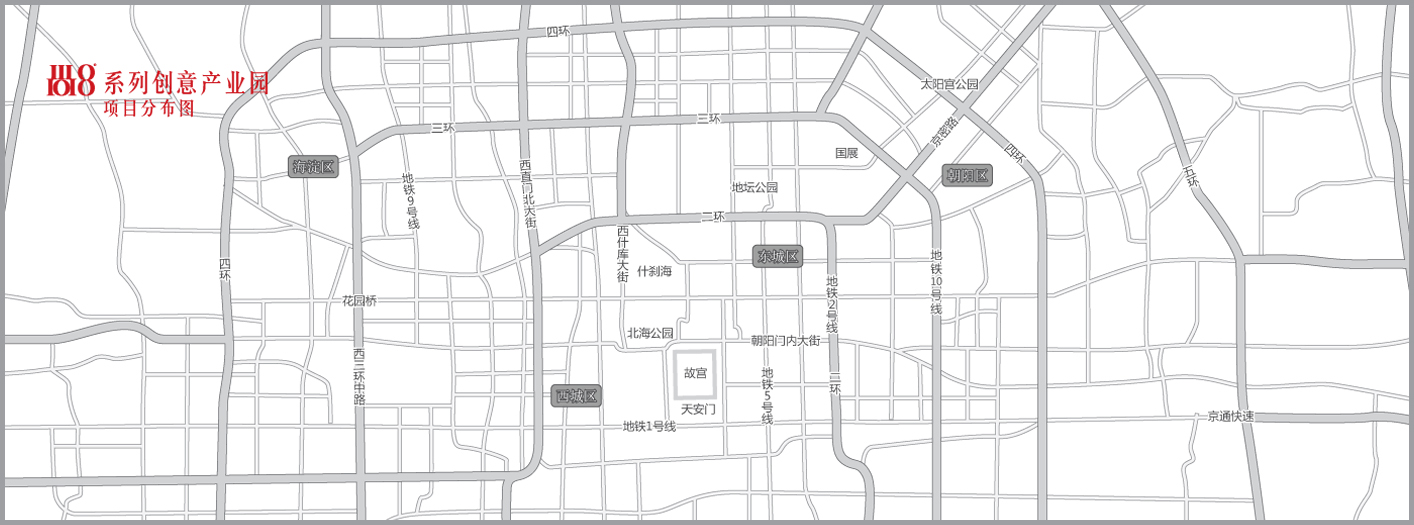
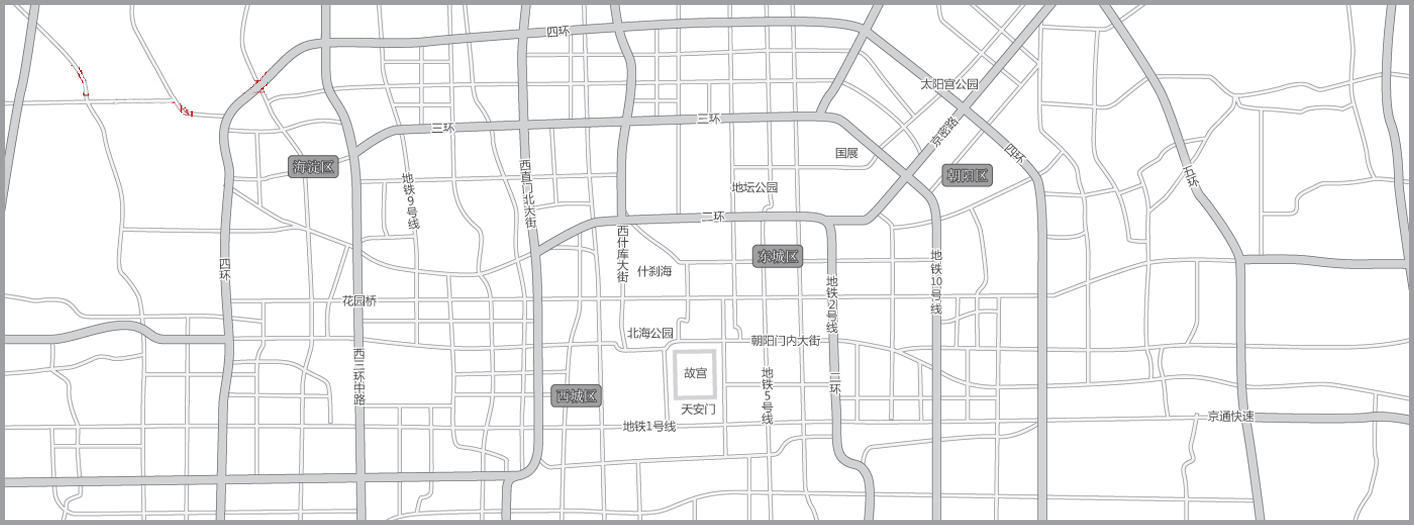
updates images and styles

Changed region(s): [[0.0311, 0.1219, 0.1867, 0.2438]]

diff --git a/resources/styles.css b/resources/styles.css
@@ -126,7 +126,8 @@ a:visited {
 }
 
 .page-header .page-header-logo img {
-  height: 80px;
+  padding-top: 10px;
+  height: 60px;
 }
 
 .page-header-menu {
